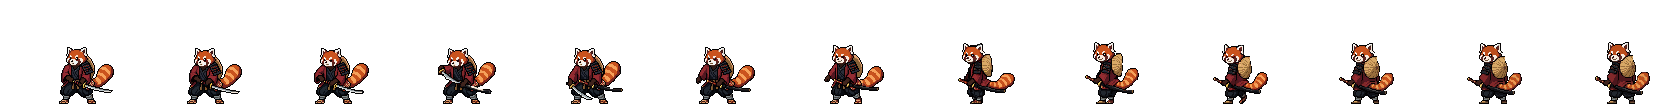
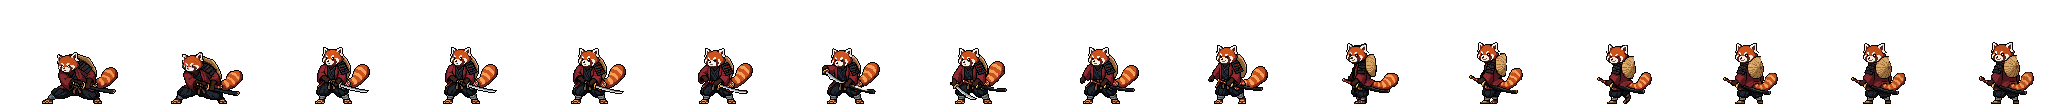
Samurai: PixelLab idle loop in the iaido crouch; victory opens with a snap draw
Claude-Session: https://claude.ai/code/session_01Na4BQSfsgPtUoSBxCa6yoU

diff --git a/public/js/scene.js b/public/js/scene.js
@@ -3660,8 +3660,12 @@ export class BattleScene {
   _drawPetals(n, t, dt) {
     if (this._victory) for (const A of this.actors.values()) {
       if (A.type !== 'hero' || A.cls !== 'samurai' || A.downed || A.gone) continue;
-      // the blossoms start when the blade clicks home (the move's 'sheathAt' frame); without the move, shortly after the win
       const m = A.anim, mine = m && m.d && m.d.loop;
+      // the snap draw out of his iaido crouch ('drawAt'): a white slash where the blade comes out
+      if (mine && m.d.drawAt != null && (!A._drawnAt || A._drawnAt < this.victoryAt) && t >= m.t0 + m.at[m.d.drawAt] * m.speed) {
+        A._drawnAt = t; this.arc(A.x - 16, A.y - 20, 18, '#ffffff'); this.flash = Math.max(this.flash || 0, 0.12); sfx('slash');
+      }
+      // the blossoms start when the blade clicks home (the move's 'sheathAt' frame); without the move, shortly after the win
       const held = mine ? m.t0 + (m.d.sheathAt != null ? m.at[m.d.sheathAt] : m.total) * m.speed : (this.victoryAt || t) + 700;
       if (t < held) continue;
       const floor = A.y + 2;

diff --git a/tools/build_attack.py b/tools/build_attack.py
@@ -81,10 +81,12 @@ EXTRA = {
     'cleric:f/victory': dict(base='cleric:f', ms=[130] * 9, loop=[[8, 650], [9, 650]]),
     'mage:f/victory': dict(base='mage:f', ms=[130] * 11, loop=[[10, 650], [11, 650]]),
     'ranger:f/victory': dict(base='ranger:f', ms=[130] * 9, loop=[[8, 650], [9, 650]]),
-    # samurai (PixelLab animate_image from his idle to tools/build_samurai_victory.py's hold pose): a flick of the blade,
+    # samurai: from his iaido crouch a snap draw ('drawAt': the blade comes out, with a slash flash in the game; the
+    # in-betweens of PixelLab's draw were unusable, so it cuts from the start of the draw to the blade out), then
+    # (PixelLab animate_image from his old idle to tools/build_samurai_victory.py's hold pose) a flick of the blade,
     # it slides home ('sheathAt': the click, when the first cherry blossoms fly), then he turns his back and looks over
     # his shoulder. The hold breathes between the last frame and the same lifted 1px.
-    'samurai:m/victory': dict(base='samurai:m', ms=[90, 80, 90, 150, 110, 200, 260, 110, 110, 110, 120], loop=[[11, 700], [12, 700]], sheathAt=5),
+    'samurai:m/victory': dict(base='samurai:m', ms=[140, 70, 50, 90, 80, 90, 150, 110, 200, 260, 110, 110, 110, 120], loop=[[14, 700], [15, 700]], sheathAt=8, drawAt=2),
     # Champion's Combo (tools/assemble_combo.py): three slashes ('slashAt' = the frame each one lands on), lift the sword
     # up, hold it while the electric aura charges ('holdAt' = first and last held frame; 'blade' = blade length for the
     # aura), then the downward slash: the giant arc appears on 'arcAt' and the finisher lands on 'hit'.
@@ -162,7 +164,7 @@ def build(skin):
         'timeline': [[i, ms] for i, ms in enumerate(m['ms'])], 'hit': m.get('hit'), 'loop': m.get('loop'), 'trail': m.get('trail'), 'dashFrames': m.get('dashFrames', 4), 'dash': m.get('dash', 16),
         'cast': m.get('cast', False), 'strike': m.get('strike'), 'release': m.get('release'), 'charge': m.get('charge'), 'muzzle': m.get('muzzle'), 'zoom': m.get('zoom'),
         'tips': tips, 'chargeTo': m.get('chargeTo'), 'swing': m.get('swing'), 'aura': m.get('aura'), 'ring': m.get('ring'), 'upswing': m.get('upswing'), 'dashAt': m.get('dashAt'),
-        'slashAt': m.get('slashAt'), 'holdAt': m.get('holdAt'), 'arcAt': m.get('arcAt'), 'blade': m.get('blade'), 'meteor': m.get('meteor'), 'quake': m.get('quake'), 'leap': m.get('leap'), 'resolve': m.get('resolve'), 'sheathAt': m.get('sheathAt')}
+        'slashAt': m.get('slashAt'), 'holdAt': m.get('holdAt'), 'arcAt': m.get('arcAt'), 'blade': m.get('blade'), 'meteor': m.get('meteor'), 'quake': m.get('quake'), 'leap': m.get('leap'), 'resolve': m.get('resolve'), 'sheathAt': m.get('sheathAt'), 'drawAt': m.get('drawAt')}
     for al in m.get('aliases', []):   # e.g. samurai:f shares the samurai's sheets until she has her own
         man['heroes'][al].setdefault('anims', {})[mv] = man['heroes'][m.get('skin', skin)]['anims'][mv]
     json.dump(man, open(path, 'w'), indent=1)

diff --git a/tools/build_ranger.py b/tools/build_ranger.py
@@ -88,7 +88,8 @@ def build_one(key):
         body = shade(base, hs)
         P = {}
         if idles:
-            for i in range(4): P['idle%d' % i] = shade(idles[i], hs)
+            fk = [(a + OX, b + OY, c + OX, d + OY) for a, b, c, d in cfg.get('keep', [])]   # idle frames are in frame coordinates
+            for i in range(4): P['idle%d' % i] = shade(idles[i], hs, fk or None)
         else:
             P['idle0'] = frame(body); P['idle1'] = frame(body, upper=(up1, 0, 1)); P['idle2'] = frame(body, upper=(up2, 0, 1)); P['idle3'] = P['idle1']
         if 'swing_src' in cfg:   # the strike frames from a second drawing (the samurai: blade drawn), feet on the same spot
